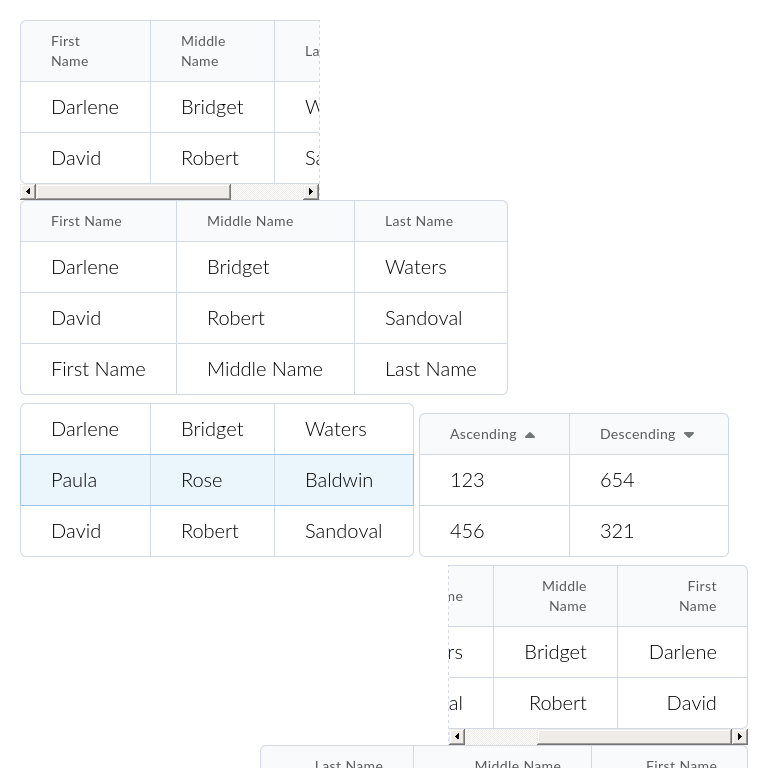
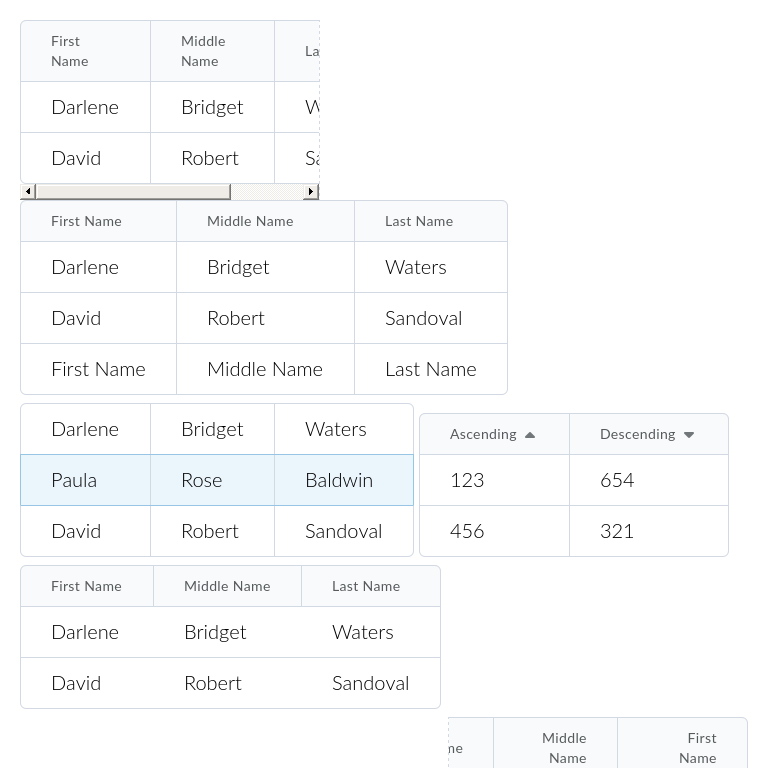
Add no-column-border style

diff --git a/d2l-table-style.html b/d2l-table-style.html
@@ -290,6 +290,42 @@ TODO: When ShadowDOM v1 is available, use <slot> and ::slotted
 			:host([selectable]) > ::content > tbody > tr:last-child[selected]:hover > th {
 				border-bottom-color: var(--d2l-table-row-border-color-active-selected) !important;
 			}
+
+			:host([no-column-border]) > ::content > tbody > tr > td,
+			:host([no-column-border]) > ::content > tbody > tr > th,
+			:host-context([dir="rtl"])[no-column-border] > ::content > tbody > tr > td,
+			:host-context([dir="rtl"])[no-column-border] > ::content > tbody > tr > th {
+				border-left: none;
+				border-right: none;
+			}
+
+			:host([no-column-border]) > ::content > tbody > tr > td:first-child,
+			:host([no-column-border]) > ::content > tbody > tr > th:first-child {
+				border-left: var(--d2l-table-border);
+			}
+
+			:host([no-column-border]) > ::content > tbody > tr > td:last-child,
+			:host([no-column-border]) > ::content > tbody > tr > th:last-child {
+				border-right: var(--d2l-table-border);
+			}
+
+			:host-context([dir="rtl"])[no-column-border] > ::content > tbody > tr > td:first-child,
+			:host-context([dir="rtl"])[no-column-border] > ::content > tbody > tr > th:first-child {
+				border-left: none;
+				border-right: var(--d2l-table-border);
+			}
+
+			:host-context([dir="rtl"])[no-column-border] > ::content > tbody > tr > td:last-child,
+			:host-context([dir="rtl"])[no-column-border] > ::content > tbody > tr > th:last-child {
+				border-right: none;
+				border-left: var(--d2l-table-border);
+			}
+
+			:host-context([dir="rtl"])[no-column-border] > ::content > tbody > tr > td:only-child,
+			:host-context([dir="rtl"])[no-column-border] > ::content > tbody > tr > th:only-child {
+				border-right: var(--d2l-table-border);
+				border-left: var(--d2l-table-border);
+			}
 		</style>
 	</template>
 </dom-module>

diff --git a/demo/simple-demo.html b/demo/simple-demo.html
@@ -40,7 +40,6 @@
 			</table>
 		</div>
 		<div class="screenshots screenshot-small">
-			<!-- header only -->
 			<table is="d2l-table">
 				<thead>
 				<tr>
@@ -111,6 +110,29 @@
 				<tr>
 					<td>456</td>
 					<td>321</td>
+				</tr>
+				</tbody>
+			</table>
+		</div>
+		<div class="screenshots screenshot-no-column-border">
+			<table is="d2l-table" no-column-border>
+				<thead>
+				<tr>
+					<th>First Name</th>
+					<th>Middle Name</th>
+					<th>Last Name</th>
+				</tr>
+				</thead>
+				<tbody>
+				<tr>
+					<td>Darlene</td>
+					<td>Bridget</td>
+					<td>Waters</td>
+				</tr>
+				<tr>
+					<td>David</td>
+					<td>Robert</td>
+					<td>Sandoval</td>
 				</tr>
 				</tbody>
 			</table>
